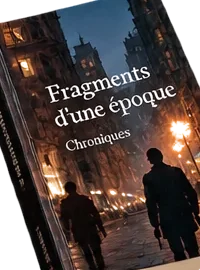
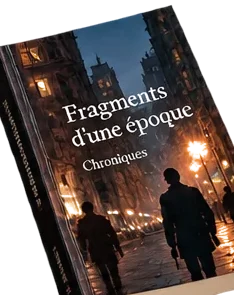
Corrige les cadrages tronqués (titres coupés) des 28 cartes
Le détourage précédent (largest-component + seuillage) avait aussi
recoupé DANS le contenu de plusieurs éléments dès que le rectangle de
recadrage source était trop serré : "Cursus" tronqué en "Curs", "Les
chemins de l'invisible" en "Les chemi.../l'invisib", "Analyse
comparative" coupé en haut, "L'art des liens" en "des lie", "Penser
autrement" en "autreme"... — des bouts d'image plutôt que des
couvertures complètes.

Revérifié les 28 éléments un par un (image isolée, pas seulement en
planche de contact, qui masquait certaines troncatures) et corrigé les
boîtes de recadrage source : élargies là où du contenu manquait
(présent dans la planche, juste hors du cadrage précédent — donc rien
à reconstruire, seulement à recadrer correctement), resserrées là où
un livre voisin débordait (carte-geo/photo-cote, quelques cartes
oracle). Le pipeline de détourage lui-même (seuillage + composante
connexe) est inchangé.

Claude-Session: https://claude.ai/code/session_015EgAWCe7Wp3boi6AaBTQ9u

diff --git a/CLAUDE.md b/CLAUDE.md
@@ -91,8 +91,19 @@ Demandes explicites ayant façonné ce fichier, dans l'ordre :
    grande composante connexe du masque (élimine les bouts de livre
    voisin qui traînaient dans les coins du rectangle, quand deux livres
    se touchent sur la planche) + flou léger sur le seul canal alpha
-   pour adoucir le bord. Les cadrages ont aussi été resserrés d'un
-   deuxième passage pour réduire ces bavures de voisinage à la source.
+   pour adoucir le bord.
+5. Ce détourage plus serré avait recoupé DANS le contenu de plusieurs
+   éléments (titre tronqué : "Curs" au lieu de "Cursus", "Les chemi..."
+   au lieu de "Les chemins de l'invisible", "Analyse comparative" coupé
+   en haut, etc.) — demande explicite : des images COMPLÈTES, pas des
+   bouts d'image, quitte à laisser un peu de bavure de voisinage plutôt
+   que de couper dans le sujet. Chacun des 28 cadrages a été revérifié
+   un par un (élément par élément, pas seulement en planche de contact)
+   et élargi côté contenu manquant / resserré côté bavure de voisin —
+   PAS de reconstruction générative (inpainting) : la planche source
+   contenait déjà tout le contenu manquant juste à côté du cadrage
+   précédent, il n'y avait donc rien à "recomposer", seulement à
+   recadrer correctement.
 
 La planche source elle-même n'est PAS conservée dans le dépôt (seuls les
 28 recadrages qui en sont tirés le sont) — la redemander à Joseph avant
